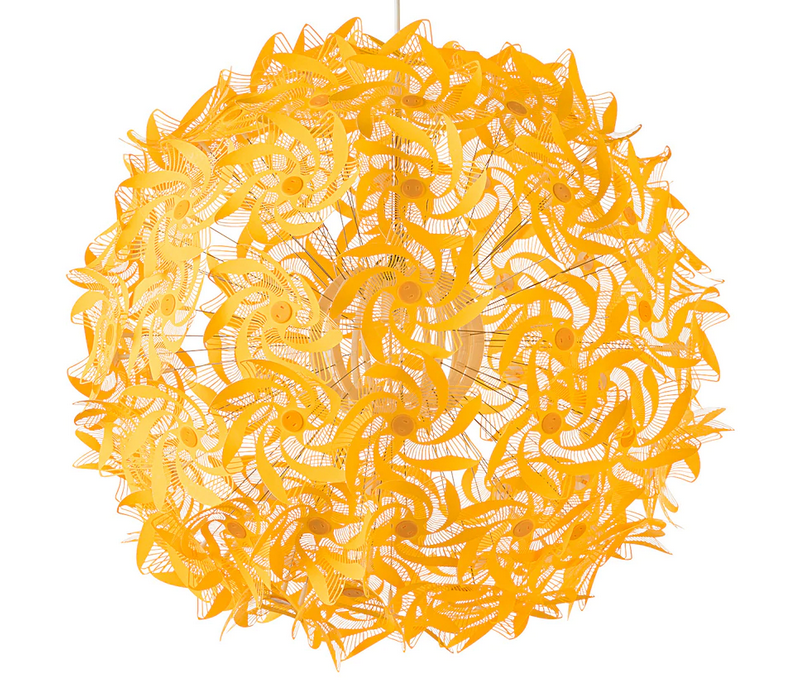
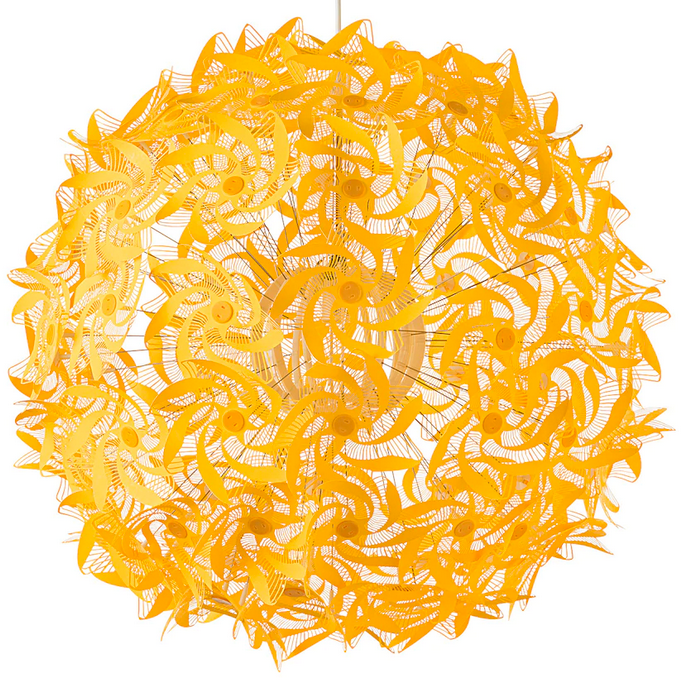
fix colors

diff --git a/index.html b/index.html
@@ -1,10 +1,26 @@
 <html>
 <head>
+<title>Casa Solar, BCN</title>
+<style>
+div.content {
+  margin: 0 auto;
+  width: 600px;
+  font-family: Helvetica, sans-serif;
+}
+h1 {
+  text-align: center;
+  color: #A02;
+}
+img {
+  max-width: 600px;
+}
+</style>
 </head>
 <body>
+<div class="content">
 <h1>Casa Solar</h1>
-<div class="img">
 <img alt="sunshine lamp" src="lamp.png"/>
+<h1>Barcelona</h1>
 </div>
 </body>
 </html>
